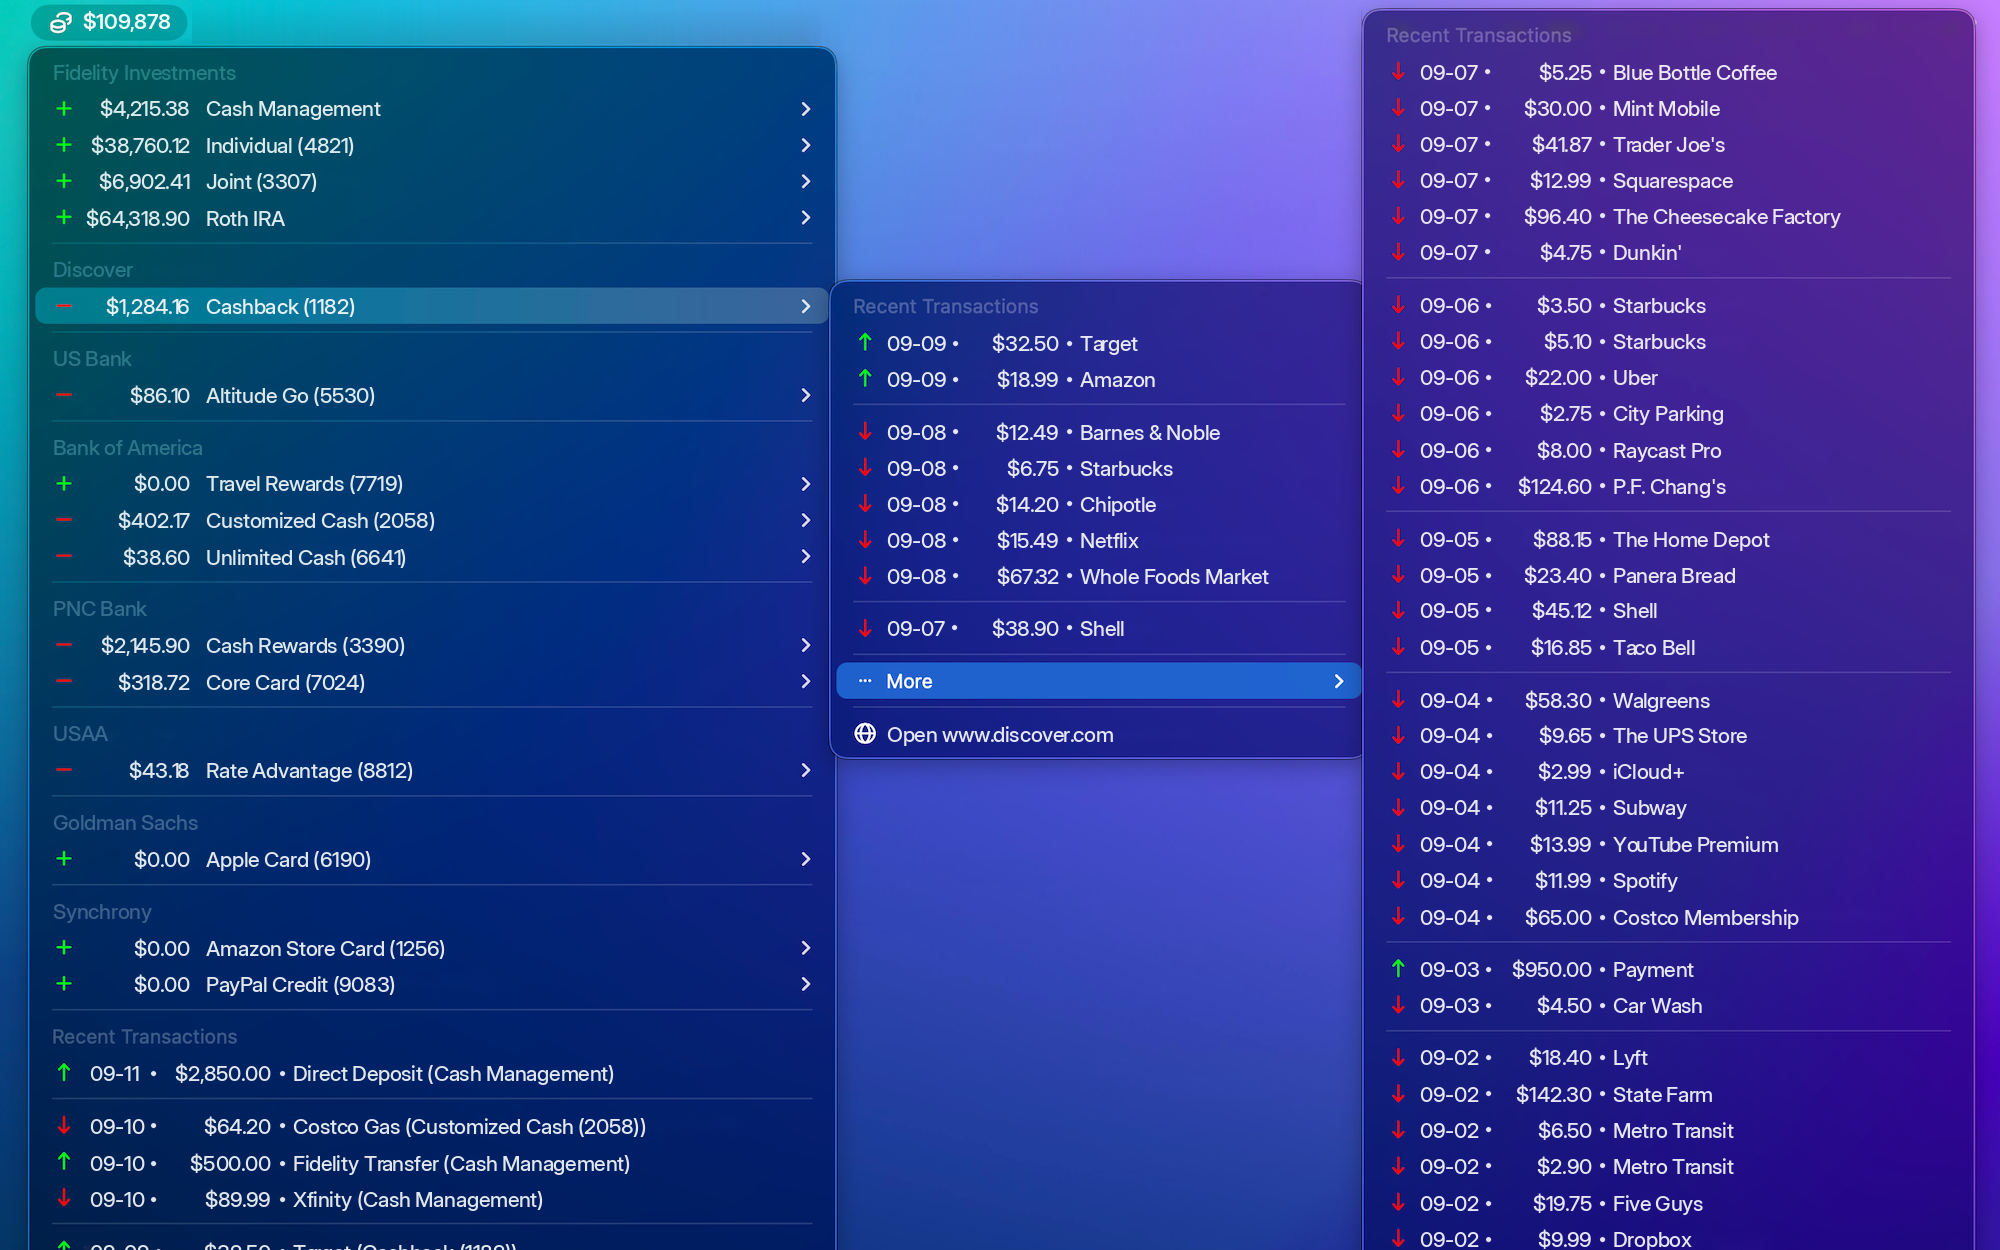
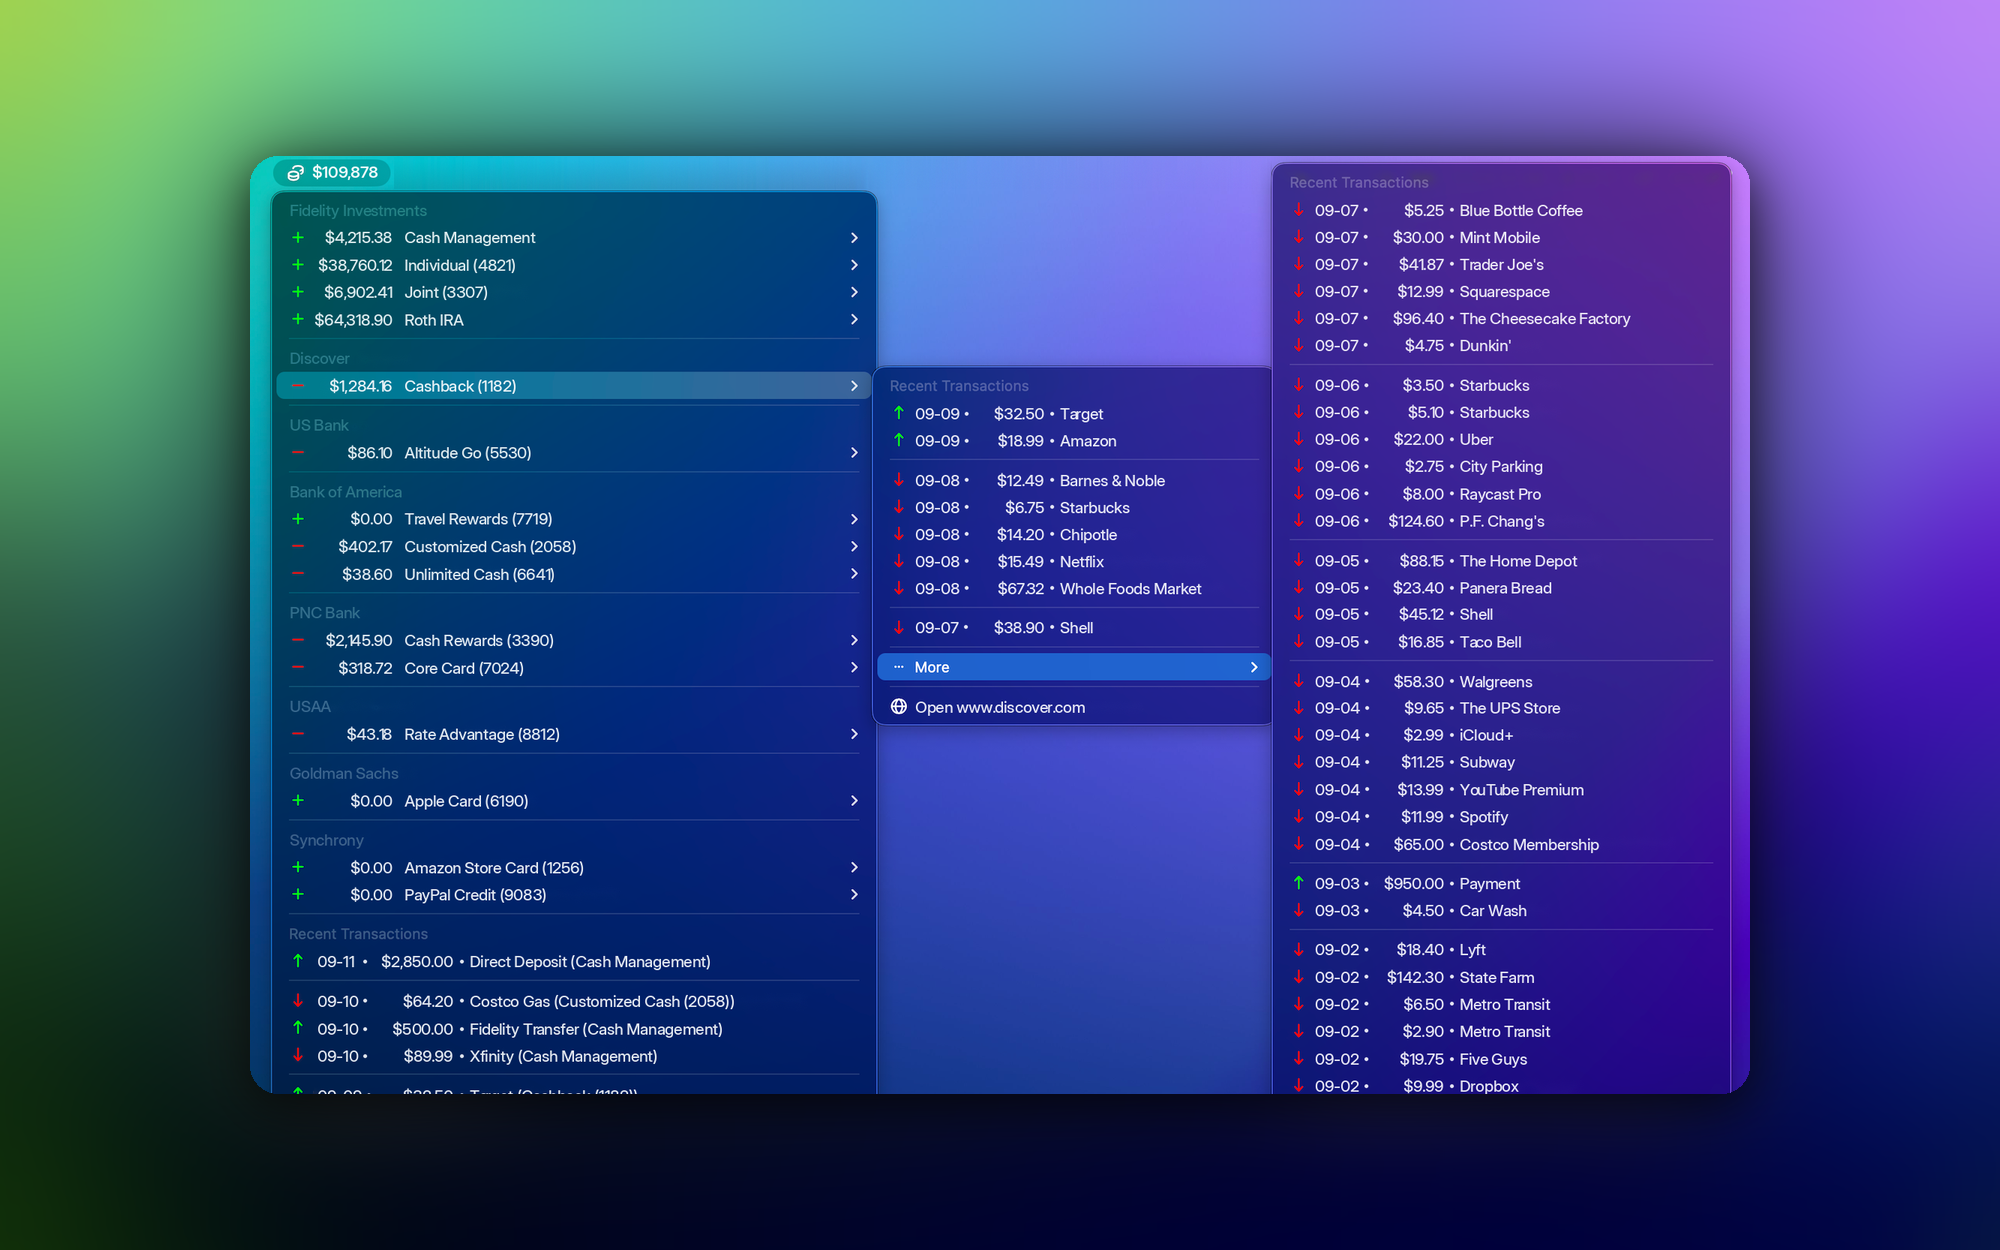
Absolute refresh stamp, menu bar repaint, compliant screenshot
Brings this repo level with the store PR, raycast/extensions#31035. Its head,
d38a5f0 (tip of ext/raycash on the dzg/extensions fork, authored by Dahn
Ze'ev Gilad), was committed there directly and never landed here.

Last Refreshed rendered "Today at 4:44 PM" from the clock at the moment the
string was built, then kept that wording after the day rolled over, reading as
a refresh that never happened. Both surfaces that show it -- the menu bar
dropdown and the root search subtitle -- stay painted until their command next
runs, so render it as an absolute date and time that cannot go stale.

Refresh Balances wrote the cache and its own subtitle but never re-ran the
menubar command, so the two surfaces disagreed, 1:15 PM against 1:46 PM.
Relaunch menubar in the background once the refresh lands. It cannot spend
extra quota: the repaint re-enters getAccountSet, and a real fetch has just
reset the cache age to zero while a cached result means the age was already
under the floor or the cap was spent.

The menu bar screenshot failed the Metadata Image Enforcer -- it bled off all
four edges, measuring 22.3/39.2/41.4/31.9% against an 8-17% band. Inset it
as a centred card at 12.5% padding over the wallpaper the other two shots
already use.

Claude-Session: https://claude.ai/code/session_01H1JV3175ESZ263CH52CQn7

diff --git a/src/simplefin.ts b/src/simplefin.ts
@@ -1,5 +1,11 @@
 import { createHash } from "crypto";
-import { Cache, Color, getPreferenceValues } from "@raycast/api";
+import {
+  Cache,
+  Color,
+  LaunchType,
+  getPreferenceValues,
+  launchCommand,
+} from "@raycast/api";
 
 /**
  * SimpleFIN Bridge client.
@@ -365,6 +371,27 @@ export async function getAccountSet(force = false): Promise<AccountSet> {
   cache.set(KEY_FETCHED_AT, String(fetchedAt));
 
   return { accounts, errors, fetchedAt, fromCache: false };
+}
+
+/**
+ * Repaints the menu bar extra after data changes underneath it.
+ *
+ * The menu bar holds whatever the menubar command last rendered, and nothing
+ * re-runs that command when another command writes the cache. Refresh Balances
+ * would fetch, stamp its own subtitle with the new time, and leave the menu
+ * showing the previous fetch until the 2h interval came round -- two surfaces
+ * reading one cache and disagreeing about it.
+ *
+ * A background launch re-renders the menu without stealing focus. The user can
+ * disable the Menu Bar command, and launchCommand throws when they have, so a
+ * failed repaint must never turn a successful refresh into an error.
+ */
+export async function repaintMenuBar(): Promise<void> {
+  try {
+    await launchCommand({ name: "menubar", type: LaunchType.Background });
+  } catch {
+    // Menu Bar command disabled or unavailable; nothing to repaint.
+  }
 }
 
 export type ThemeColor = Color | { light: string; dark: string };
@@ -879,34 +906,39 @@ export function formatDate(
   );
 }
 
+/**
+ * Formats the "Last Refreshed" stamp as an absolute date and time.
+ *
+ * Deliberately never says "Today" or "Yesterday". Both callers write into a
+ * surface that stays painted until the command next runs — the menu bar
+ * dropdown and the root search subtitle — so the string routinely outlives the
+ * render that produced it. A relative word is only true at the moment it is
+ * computed: a stamp written at 4:44pm was still claiming "Today at 4:44 PM"
+ * the following afternoon, which reads as a refresh that never happened. An
+ * absolute stamp says the same thing whenever it is eventually read.
+ *
+ * dateHeading() keeps its relative wording on purpose: the Day Heading Format
+ * preference documents that Today and Yesterday are always named.
+ */
 export function formatRefreshTime(
   timestamp: number,
   customDateFormat?: string,
 ): string {
   if (!timestamp) return "";
-  const date = new Date(timestamp);
   const epochSeconds = Math.floor(timestamp / 1000);
-
-  const startOfDay = (d: Date) =>
-    new Date(d.getFullYear(), d.getMonth(), d.getDate()).getTime();
-  const days = Math.round(
-    (startOfDay(new Date()) - startOfDay(date)) / 86400000,
-  );
-
-  const timeStr = date.toLocaleTimeString(undefined, {
-    hour: "numeric",
-    minute: "2-digit",
-  });
-
-  if (days === 0) return `Today at ${timeStr}`;
-  if (days === 1) return `Yesterday at ${timeStr}`;
 
   const format =
     (customDateFormat ?? getPrefs().prefDateFormat)?.trim() ||
     DEFAULT_DATE_FORMAT;
+  // A format carrying its own hour field already reads as a time.
   if (format.includes("h") || format.includes("H")) {
     return formatDate(epochSeconds, format);
   }
+
+  const timeStr = new Date(timestamp).toLocaleTimeString(undefined, {
+    hour: "numeric",
+    minute: "2-digit",
+  });
   return `${formatDate(epochSeconds, format)} at ${timeStr}`;
 }
 

diff --git a/src/refresh.tsx b/src/refresh.tsx
@@ -2,6 +2,7 @@ import { showToast, Toast, updateCommandMetadata } from "@raycast/api";
 import {
   formatRefreshTime,
   getAccountSet,
+  repaintMenuBar,
   requestsToday,
   MAX_REQUESTS_PER_DAY,
 } from "./simplefin";
@@ -19,6 +20,14 @@ export default async function Command() {
     await updateCommandMetadata({
       subtitle: `Last Refreshed: ${timeStr} • API Calls Today: ${calls} / 18`,
     });
+
+    // Update the other surface too, so the menu bar and this subtitle agree.
+    // Safe against the quota whichever way the call above went: the repaint
+    // re-enters getAccountSet, and it cannot reach the network here. A real
+    // fetch just reset the cache age to zero, and a cached result means the
+    // age was already under the 20 minute floor or the daily cap was spent --
+    // all three make shouldFetch decline.
+    await repaintMenuBar();
 
     if (accountSet.fromCache) {
       toast.style = Toast.Style.Failure;
